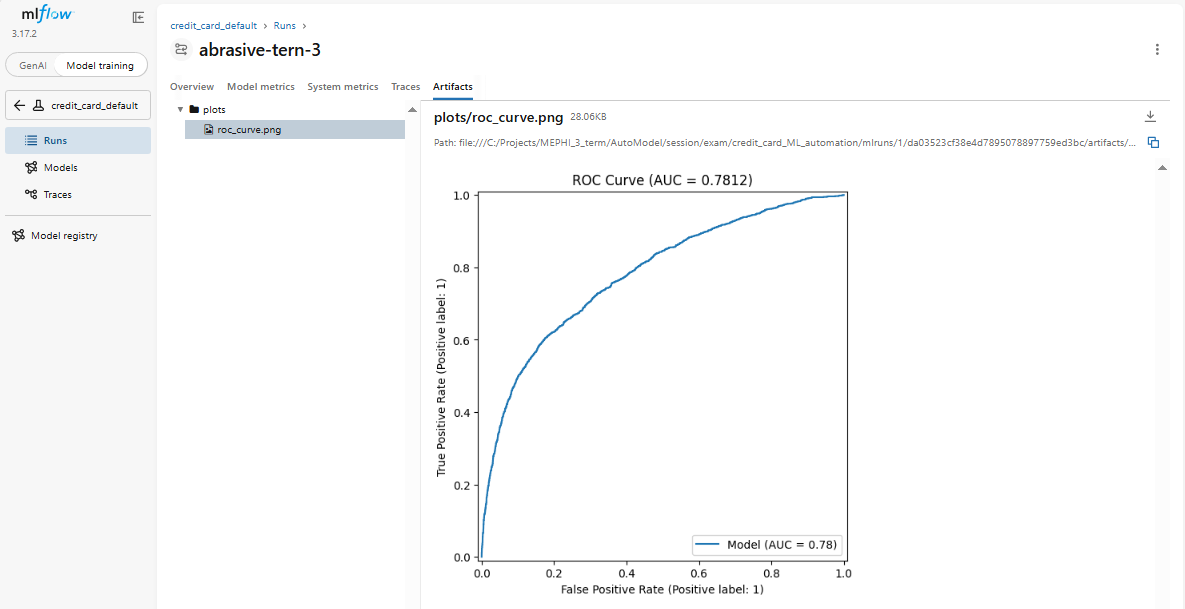
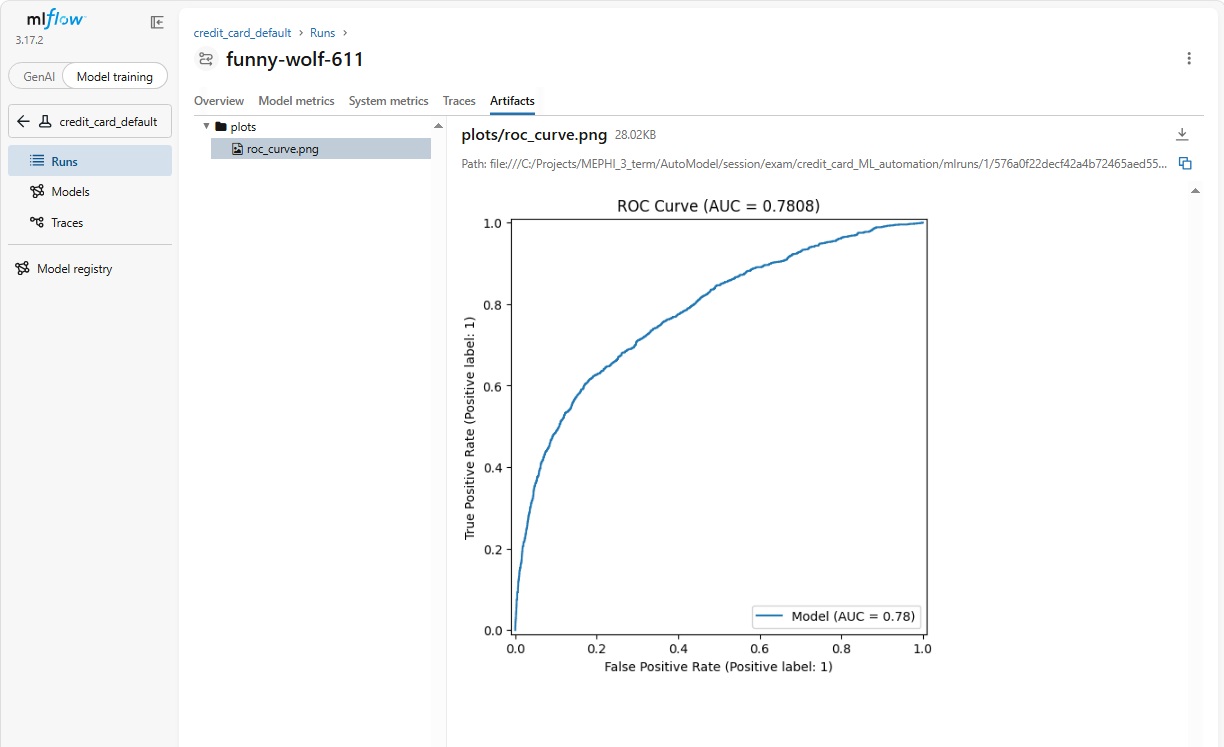
refine: final polishing and bug fixes (db isolation, schema sync, metric tests, dvc plots, data cleaning, champion-challenger)

diff --git a/src/monitoring/retrain_trigger.py b/src/monitoring/retrain_trigger.py
@@ -36,29 +36,46 @@ def should_retrain(alerts: list, threshold: float = DRIFT_THRESHOLD) -> bool:
     return any(a["psi"] >= threshold for a in alerts)
 
 
-def promote_latest(client: MlflowClient) -> str:
+def get_metric(client: MlflowClient, version: str, metric_name: str = "roc_auc") -> float:
+    mv = client.get_model_version(REGISTERED_MODEL_NAME, version)
+    run = client.get_run(mv.run_id)
+    return float(run.data.metrics.get(metric_name, 0.0))
+
+
+def promote_if_better(client: MlflowClient) -> str:
     versions = client.search_model_versions(f"name='{REGISTERED_MODEL_NAME}'")
     if not versions:
         return "no versions"
+
     latest = max(versions, key=lambda v: int(v.version))
 
     max_retries = 15
-    retry_delay = 2
     for attempt in range(max_retries):
-
-        current_status = ModelVersionStatus.from_string(latest.status)
-        if current_status == ModelVersionStatus.READY:
+        if ModelVersionStatus.from_string(latest.status) == ModelVersionStatus.READY:
             break
-        print(
-            f"Waiting for model version {latest.version} to be READY... (attempt {attempt+1}/{max_retries})"
-        )
-        time.sleep(retry_delay)
+        print(f"Waiting for version {latest.version} to be READY... (attempt {attempt+1})")
+        time.sleep(2)
         latest = client.get_model_version(REGISTERED_MODEL_NAME, latest.version)
 
     if ModelVersionStatus.from_string(latest.status) != ModelVersionStatus.READY:
-        raise RuntimeError(
-            f"Model version {latest.version} is not ready after {max_retries * retry_delay}s (status: {latest.status})"
-        )
+        raise RuntimeError(f"Version {latest.version} failed to reach READY status.")
+
+    latest_metric = get_metric(client, latest.version)
+
+    try:
+        current_staging = client.get_model_version_by_alias(REGISTERED_MODEL_NAME, ALIAS_NAME)
+        if current_staging.version == latest.version:
+            return f"Version {latest.version} is already {ALIAS_NAME}"
+
+        staging_metric = get_metric(client, current_staging.version)
+        print(f"Challenger (v{latest.version}): ROC-AUC = {latest_metric:.4f}")
+        print(f"Champion   (v{current_staging.version}): ROC-AUC = {staging_metric:.4f}")
+
+        if latest_metric <= staging_metric:
+            print(f"Rejecting v{latest.version}: metric is not better than champion.")
+            return f"Version {latest.version} rejected (worse than {current_staging.version})"
+    except Exception:
+        print(f"No current {ALIAS_NAME} alias found. Promoting v{latest.version} by default.")
 
     client.set_registered_model_alias(
         name=REGISTERED_MODEL_NAME,
@@ -78,9 +95,9 @@ def run(dry_run: bool = False) -> dict:
         print("running:", " ".join(cmd))
         subprocess.run(cmd, check=True)
         client = MlflowClient(config.MLFLOW_TRACKING_URI)
-        version = promote_latest(client)
-        report["new_version"] = version
-        print(f"new alias '{ALIAS_NAME}' set for version: {version}")
+        version = promote_if_better(client)
+        report["promotion_result"] = version
+        print(f"Promotion result: {version}")
     elif not triggered:
         print("no retrain needed (no alerts above threshold)")
 

diff --git a/src/api/storage.py b/src/api/storage.py
@@ -1,14 +1,22 @@
 import json
+import os
 import sqlite3
+from contextlib import closing
 from datetime import datetime, timezone
 from pathlib import Path
 
 from src import config
 
-DB_PATH = Path(config.PROJECT_ROOT) / "monitoring.db"
+DB_PATH = Path(
+    os.environ.get(
+        "MONITORING_DB_PATH",
+        config.PROJECT_ROOT / "monitoring_data" / "monitoring.db",
+    )
+)
 
 
 def _connect():
+    DB_PATH.parent.mkdir(parents=True, exist_ok=True)
     conn = sqlite3.connect(DB_PATH)
     conn.execute("""
         CREATE TABLE IF NOT EXISTS predictions (
@@ -23,7 +31,7 @@ def _connect():
 
 
 def log_prediction(features: dict, probability: float, prediction: int) -> None:
-    with _connect() as conn:
+    with closing(_connect()) as conn, conn:
         conn.execute(
             "INSERT INTO predictions (ts, features, probability, prediction) VALUES (?, ?, ?, ?)",
             (
@@ -36,9 +44,8 @@ def log_prediction(features: dict, probability: float, prediction: int) -> None:
 
 
 def fetch_predictions(limit: int = 1000):
-    with _connect() as conn:
-        rows = conn.execute(
+    with closing(_connect()) as conn:
+        return conn.execute(
             "SELECT ts, features, probability, prediction FROM predictions ORDER BY id DESC LIMIT ?",
             (limit,),
         ).fetchall()
-    return rows

diff --git a/src/models/train.py b/src/models/train.py
@@ -9,17 +9,12 @@ import mlflow
 import mlflow.sklearn
 import pandas as pd
 import yaml
-from sklearn.metrics import (
-    RocCurveDisplay,
-    f1_score,
-    precision_score,
-    recall_score,
-    roc_auc_score,
-)
+from sklearn.metrics import RocCurveDisplay
 from sklearn.model_selection import GridSearchCV
 
 from src import config
 from src.features.build_features import engineer_features
+from src.models.metrics import compute_metrics
 from src.models.pipeline import build_pipeline
 
 REGISTERED_MODEL_NAME = "credit_card_default_model"
@@ -85,13 +80,7 @@ def train() -> None:
 
         print("[5/6] Calculating metrics and logging to MLflow...", flush=True)
         y_proba = best.predict_proba(X_test)[:, 1]
-        y_pred = (y_proba >= 0.5).astype(int)
-        metrics = {
-            "roc_auc": float(roc_auc_score(y_test, y_proba)),
-            "f1": float(f1_score(y_test, y_pred)),
-            "precision": float(precision_score(y_test, y_pred)),
-            "recall": float(recall_score(y_test, y_pred)),
-        }
+        metrics = compute_metrics(y_test, y_proba)
         mlflow.log_metrics(metrics)
 
         Path(config.ARTIFACTS_DIR).mkdir(parents=True, exist_ok=True)

diff --git a/src/api/app.py b/src/api/app.py
@@ -1,3 +1,4 @@
+import logging
 from pathlib import Path
 
 import joblib
@@ -26,9 +27,9 @@ def get_model():
 class ClientData(BaseModel):
     LIMIT_BAL: float = Field(..., ge=0)
     AGE: int = Field(..., ge=18, le=120)
-    SEX: int
-    EDUCATION: int
-    MARRIAGE: int
+    SEX: int = Field(..., ge=1, le=2)
+    EDUCATION: int = Field(..., ge=1, le=4)
+    MARRIAGE: int = Field(..., ge=1, le=3)
     PAY_0: int
     PAY_2: int
     PAY_3: int
@@ -61,5 +62,8 @@ def predict(client: ClientData) -> dict:
     df = engineer_features(df)
     model = get_model()
     proba = float(model.predict_proba(df)[:, 1][0])
-    log_prediction(data, proba, int(proba >= 0.5))
+    try:
+        log_prediction(data, proba, int(proba >= 0.5))
+    except Exception:
+        logging.getLogger(__name__).exception("prediction logging failed")
     return {"default_prediction": int(proba >= 0.5), "default_probability": proba}

diff --git a/tests/test_validation.py b/tests/test_validation.py
@@ -4,6 +4,10 @@ from pandera.errors import SchemaErrors
 from src.data.validation import validate_raw
 
 
+def test_validation_passes_on_valid(raw_df):
+    validate_raw(raw_df)
+
+
 def test_validation_fails_on_negative_limit(raw_df):
     bad_df = raw_df.copy()
     bad_df.loc[0, "LIMIT_BAL"] = -1000
@@ -15,4 +19,17 @@ def test_validation_fails_on_invalid_target(raw_df):
     bad_df = raw_df.copy()
     bad_df.loc[0, "default_payment_next_month"] = 5
     with pytest.raises(SchemaErrors):
+        validate_raw(bad_df)
+
+
+def test_validation_fails_on_null(raw_df):
+    bad_df = raw_df.copy()
+    bad_df.loc[0, "AGE"] = None
+    with pytest.raises(SchemaErrors):
+        validate_raw(bad_df)
+
+
+def test_validation_fails_on_missing_column(raw_df):
+    bad_df = raw_df.drop(columns=["AGE"])
+    with pytest.raises(Exception):
         validate_raw(bad_df)

diff --git a/src/data/make_dataset.py b/src/data/make_dataset.py
@@ -15,6 +15,13 @@ def load_prepare_params() -> dict:
         return yaml.safe_load(f)["prepare"]
 
 
+def clean_raw(df: pd.DataFrame) -> pd.DataFrame:
+    df = df.copy()
+    df["EDUCATION"] = df["EDUCATION"].replace({0: 4, 5: 4, 6: 4})
+    df["MARRIAGE"] = df["MARRIAGE"].replace({0: 3})
+    return df
+
+
 def prepare(raw_path: Path, out_dir: Path) -> None:
     params = load_prepare_params()
 
@@ -25,6 +32,7 @@ def prepare(raw_path: Path, out_dir: Path) -> None:
     if "ID" in df.columns:
         df = df.drop(columns=["ID"])
 
+    df = clean_raw(df)
     df = engineer_features(df)
 
     train_df, test_df = train_test_split(

diff --git a/tests/conftest.py b/tests/conftest.py
@@ -4,9 +4,12 @@ import pytest
 from src import config
 from src.features.build_features import engineer_features
 
-collect_ignore_glob = []
-if not config.DATA_RAW.exists():
-    collect_ignore_glob = ["*validation*.py", "*dataset*.py", "*integration*.py"]
+
+@pytest.fixture(autouse=True)
+def _isolated_monitoring_db(tmp_path, monkeypatch):
+    from src.api import storage
+
+    monkeypatch.setattr(storage, "DB_PATH", tmp_path / "monitoring.db")
 
 
 @pytest.fixture

diff --git a/src/models/metrics.py b/src/models/metrics.py
@@ -1,0 +1,11 @@
+from sklearn.metrics import f1_score, precision_score, recall_score, roc_auc_score
+
+
+def compute_metrics(y_true, y_proba, threshold=0.5) -> dict:
+    y_pred = (y_proba >= threshold).astype(int)
+    return {
+        "roc_auc": float(roc_auc_score(y_true, y_proba)),
+        "f1": float(f1_score(y_true, y_pred)),
+        "precision": float(precision_score(y_true, y_pred)),
+        "recall": float(recall_score(y_true, y_pred)),
+    }

diff --git a/src/config.py b/src/config.py
@@ -10,7 +10,7 @@ TRAIN_PATH = DATA_PROCESSED / "train.csv"
 TEST_PATH = DATA_PROCESSED / "test.csv"
 MODEL_PATH = MODELS_DIR / "model.pkl"
 
-MLFLOW_TRACKING_URI = "sqlite:///mlflow.db"
+MLFLOW_TRACKING_URI = f"sqlite:///{(PROJECT_ROOT / 'mlflow.db').as_posix()}"
 EXPERIMENT_NAME = "credit_card_default"
 
 TARGET = "default_payment_next_month"

diff --git a/tests/test_metrics.py b/tests/test_metrics.py
@@ -1,0 +1,9 @@
+import numpy as np
+from src.models.metrics import compute_metrics
+
+
+def test_compute_metrics_perfect():
+    y = np.array([0, 0, 1, 1])
+    p = np.array([0.1, 0.2, 0.8, 0.9])
+    m = compute_metrics(y, p)
+    assert m["roc_auc"] == 1.0 and m["f1"] == 1.0

diff --git a/README.md b/README.md
@@ -37,10 +37,10 @@ flowchart LR
 ```text
 ├── .github/workflows/   # CI/CD пайплайны
 ├── data/                # raw (gitignored) и processed данные
-├── docs/                # Архитектура и Runbook
+├── docs/                # Архитектура, Runbook и Proofs
 ├── models/              # Обученные модели (gitignored)
 ├── notebooks/           # EDA (01_eda.ipynb)
-├── scripts/             # Вспомогательные скрипты (run_docker.ps1, run_experiments.ps1)
+├── scripts/             # Скрипты автоматизации
 ├── src/                 # Исходный код (data, features, models, api, monitoring)
 ├── tests/               # Unit-тесты
 ├── dvc.yaml             # DVC пайплайн
@@ -50,19 +50,19 @@ flowchart LR
 
 ## Быстрый старт
 
-> **Примечание:** Файл `requirements.api.txt` содержит только легковесные зависимости для запуска API внутри Docker (FastAPI, Uvicorn). Локально для обучения и тестов достаточно установить основной `requirements.txt`.
-
 ### 1. Подготовка окружения
-```bash
 
-# Windows
+**Windows:**
+```powershell
 python -m venv venv
 .\venv\Scripts\activate
+pip install -r requirements.txt
+```
 
-# Linux / macOS
+**macOS / Linux:**
+```bash
 python3 -m venv venv
 source venv/bin/activate
-
 pip install -r requirements.txt
 ```
 
@@ -74,14 +74,23 @@ dvc repro
 
 ### 3. Эксперименты (MLflow)
 ```bash
-mlflow ui --backend-store-uri sqlite:///mlflow.db
-# Откройте http://127.0.0.1:5000
+mlflow ui --backend-store-uri sqlite:///mlflow.db --port 5001
 ```
+Откройте `http://127.0.0.1:5001`.
 
 ### 4. Запуск API (Docker)
+
+**Windows:**
 ```powershell
 .\scripts\run_docker.ps1
 ```
+
+**macOS / Linux:**
+```bash
+chmod +x scripts/run_docker.sh
+./scripts/run_docker.sh
+```
+
 API будет доступно по адресу `http://127.0.0.1:8000/health`.
 Документация Swagger: `http://127.0.0.1:8000/docs`.
 

diff --git a/docs/runbook.md b/docs/runbook.md
@@ -27,5 +27,5 @@
 
 ## Inspect experiments
 
-    mlflow ui --backend-store-uri sqlite:///mlflow.db
+    mlflow ui --backend-store-uri sqlite:///mlflow.db --port 5001 --port 5001
     dvc exp show --no-pager
